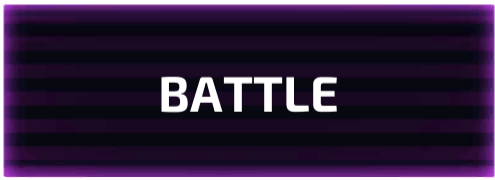
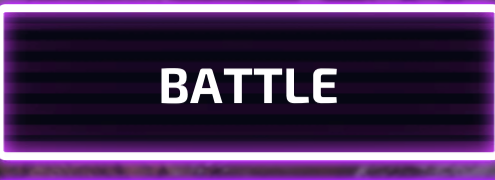
Refresh Home Battle and Store badge templates

diff --git a/test/test_home_screen_handler.py b/test/test_home_screen_handler.py
@@ -1,8 +1,17 @@
+from pathlib import Path
 from unittest.mock import patch
 
+import cv2
 import numpy as np
 
+from core.matcher import get_match
 from handlers.home_screen_handler import _tap_verified_home_battle_control
+
+
+ROOT = Path(__file__).resolve().parents[1]
+NEW_DAY_HOME_FIXTURE = (
+    ROOT / "test" / "fixtures" / "home_screen_new_day_store_badge_20260713.png"
+)
 
 
 def _screenshot():
@@ -59,3 +68,22 @@ def test_resume_battle_ocr_tolerates_button_border_artifacts():
         patch("handlers.home_screen_handler.safe_tap", return_value=True),
     ):
         assert _tap_verified_home_battle_control()
+
+
+def test_live_new_day_home_fixture_matches_battle_and_store_badge():
+    screenshot = cv2.imread(str(NEW_DAY_HOME_FIXTURE))
+    assert screenshot is not None
+
+    battle_point, battle_confidence = get_match(
+        "buttons.battle:home",
+        screenshot=screenshot,
+    )
+    badge_point, badge_confidence = get_match(
+        "overlays.daily_free_gems_badge_home",
+        screenshot=screenshot,
+    )
+
+    assert battle_point is not None
+    assert battle_confidence >= 0.9
+    assert badge_point is not None
+    assert badge_confidence >= 0.9
